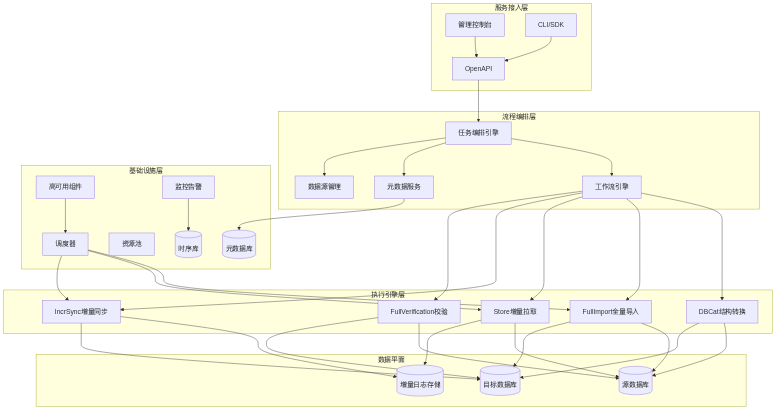
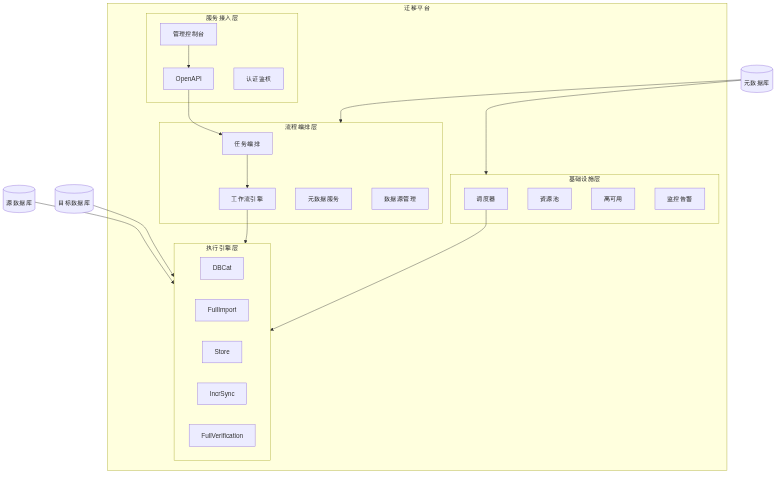
docs: SDD v3.0 风格修订
- 全文去除外部迁移工具引用
- 模块图改为分层嵌套风格（平台/框架/Core/横切/外部系统）
- 架构与流程章节改为规范段落写法，新增端到端时序图
- 第4章模块改为职责/能力要点/对外接口简洁介绍
- 更新架构图 PNG 与 Word 交付版

diff --git a/README.md b/README.md
@@ -6,30 +6,25 @@
 
 | 文档 | 格式 | 说明 |
 |------|------|------|
-| **[迁移平台软件设计说明书](doc/迁移平台软件设计说明书.md)** | Markdown | **主交付文档（SDD v2.0）**：自研迁移平台设计，借鉴 DataX/Flink/OMS 架构思想 |
-| **[迁移平台软件设计说明书](doc/迁移平台软件设计说明书.docx)** | Word | 可评审/归档的 Word 版，已嵌入架构图 PNG |
+| **[迁移平台软件设计说明书](doc/迁移平台软件设计说明书.md)** | Markdown | **主交付文档（SDD v3.0）**：架构、模块、流程设计 |
+| **[迁移平台软件设计说明书](doc/迁移平台软件设计说明书.docx)** | Word | 可评审/归档的 Word 版（含架构图 PNG） |
 
-> **文档定位**：设计一套**自研一体化迁移平台**，借鉴 OMS 产品流程、DataX 全量管道模型、Flink 流式运行时设计，**非 DataX/Flink 集成调用方案**。
-
-## 参考与设计底稿
+## 配套资料
 
 | 文档 | 说明 |
 |------|------|
 | [迁移平台总体设计](doc/迁移平台总体设计.md) | 设计研究底稿 |
-| [OMS 架构参考](doc/OMS架构参考.md) | OceanBase OMS 架构深度参考 |
-| [DataX 设计框架与模块分析](doc/DataX设计框架与模块分析.docx) | **设计借鉴来源**：Framework+Plugin、Reader-Channel-Writer |
-| [Flink 设计框架与模块总结](doc/Flink设计框架与模块总结.docx) | **设计借鉴来源**：分布式运行时、Checkpoint、Connector SPI |
+| [doc/images/](doc/images/) | 架构图、模块图、流程图 PNG |
+| [doc/diagrams/](doc/diagrams/) | Mermaid 图源文件 |
 
-## 架构图资源
+## 文档结构（SDD v3.0）
 
-[`doc/images/`](doc/images/) — SDD 引用的 8 张 PNG 架构图
-
-## 设计思路
-
-| 参考系统 | 借鉴的设计思想 | 本平台对应模块 |
-|----------|----------------|----------------|
-| **OceanBase OMS** | 产品化迁移流程、DBCat/Store/IncrSync 组件、HA | 控制台、工作流、执行组件 |
-| **DataX** | Framework+Plugin、Reader-Channel-Writer、Task 调度 | FullImport、SyncWorker、Reader/Writer 插件 |
-| **Apache Flink** | JobManager/TaskManager、Checkpoint、Connector SPI | StreamRuntime、IncrSync、LogAdapter 插件 |
-
-详细设计请参阅 [迁移平台软件设计说明书](doc/迁移平台软件设计说明书.md)。
+1. 引言
+2. 系统概述
+3. 系统架构设计（逻辑架构、模块划分、控制/数据面、部署）
+4. 模块设计（Migration Core、接入编排、执行能力、横切能力、运行时与插件）
+5. 流程设计（业务流、状态机、阶段衔接、数据流、时序）
+6. 数据与接口设计
+7. 调度与资源管理
+8. 非功能设计
+9. 附录